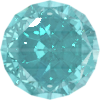
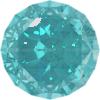
changed gem images and the theme now effects the play button

diff --git a/assets/javascript/javascript-classic.js b/assets/javascript/javascript-classic.js
@@ -250,12 +250,6 @@ var iceBackgroundPurchased = false;
 
 function buyTheme(themeName) {
     themes = {
-        'classic': {
-            'cost': 0,
-            'background': 'classic-background',
-            'inventoryBackgroundTheme': 'inventory-background-classic-theme',
-            'themeStyle': 'classic-theme'
-        },
         'fruit': {
             'cost': 100,
             'background': 'fruit-background',
@@ -264,7 +258,8 @@ function buyTheme(themeName) {
             'themePurchased': fruitBackgroundPurchased,
             'themeInventory': '#select-fruit-theme',
             'inventoryBackgroundImage': 'fruit-background-container',
-            'storeItemContainer' : '#fruit-background-purchase'
+            'storeItemContainer': '#fruit-background-purchase',
+            'playButton': 'play-button-fruit'
         },
         'pink': {
             'cost': 200,
@@ -274,7 +269,8 @@ function buyTheme(themeName) {
             'themePurchased': pinkBackgroundPurchased,
             'themeInventory': '#select-pink-theme',
             'inventoryBackgroundImage': 'pink-background-container',
-            'storeItemContainer' : '#pink-background-purchase'
+            'storeItemContainer': '#pink-background-purchase',
+            'playButton': 'play-button-pink'
         },
         'ice': {
             'cost': 300,
@@ -284,7 +280,8 @@ function buyTheme(themeName) {
             'themePurchased': iceBackgroundPurchased,
             'themeInventory': '#select-ice-theme',
             'inventoryBackgroundImage': 'ice-background-container',
-            'storeItemContainer' : '#ice-background-purchase'
+            'storeItemContainer': '#ice-background-purchase',
+            'playButton': 'play-button-ice'
         },
     }
     theme = themes[themeName];
@@ -308,7 +305,13 @@ function buyTheme(themeName) {
         $('#player-name-stats').removeClass('fruit-theme');
         $('#player-name-stats').removeClass('colour-secondary');
         $('#player-name-stats').addClass(theme.themeStyle);
+        $('#ready-button').removeClass('play-button-classic');
+        $('#ready-button').removeClass('play-button-fruit');
+        $('#ready-button').removeClass('play-button-ice');
+        $('#ready-button').removeClass('play-button-pink');
+        $('#ready-button').addClass(theme.playButton);
         currentTheme = theme.themeStyle;
+        currentThemePlayButton = theme.playButton;
         for (i = 0; i < theme.cost; i++) {
             coins--;
         };
@@ -344,32 +347,36 @@ $('#ice-background-purchase').on('click', function () {
 /* selecting theme */
 
 var currentTheme = 'classic-theme';
+var currentThemePlayButton = 'play-button-classic'
 
 function changeTheme(themeName) {
     themes = {
         'classic': {
             'background': 'classic-background',
             'inventoryBackground': 'inventory-background-classic-theme',
-            'themeStyle': 'classic-theme'
+            'themeStyle': 'classic-theme',
+            'playButton': 'play-button-classic'
         },
         'fruit': {
             'background': 'fruit-background',
             'inventoryBackground': 'inventory-background-fruit-theme',
-            'themeStyle': 'fruit-theme'
+            'themeStyle': 'fruit-theme',
+            'playButton': 'play-button-fruit'
         },
         'pink': {
             'background': 'pink-background',
             'inventoryBackground': 'inventory-background-pink-theme',
-            'themeStyle': 'pink-theme'
+            'themeStyle': 'pink-theme',
+            'playButton': 'play-button-pink'
         },
         'ice': {
             'background': 'ice-background',
             'inventoryBackground': 'inventory-background-ice-theme',
-            'themeStyle': 'ice-theme'
+            'themeStyle': 'ice-theme',
+            'playButton': 'play-button-ice'
         },
     }
     theme = themes[themeName]
-
     $('body').removeClass('ice-background');
     $('body').removeClass('pink-background');
     $('body').removeClass('fruit-background');
@@ -388,7 +395,13 @@ function changeTheme(themeName) {
     $('#player-name-stats').removeClass('fruit-theme');
     $('#player-name-stats').removeClass('colour-secondary');
     $('#player-name-stats').addClass(theme.themeStyle);
+    $('#ready-button').removeClass('play-button-classic');
+    $('#ready-button').removeClass('play-button-fruit');
+    $('#ready-button').removeClass('play-button-ice');
+    $('#ready-button').removeClass('play-button-pink');
+    $('#ready-button').addClass(theme.playButton);
     currentTheme = theme.themeStyle;
+    currentThemePlayButton = theme.playButton;
 };
 
 $('#select-classic-theme').on('click', function () {
@@ -800,7 +813,7 @@ function levelComplete() {
 
     $('#ready-start-button-container').html(`
         <i class="fas fa-long-arrow-alt-right left-play-arrow"></i>
-        <button onclick="start()" id="ready-button" class="play-button">Play!<i class="mx-2 fas fa-play"></i></button>
+        <button onclick="start()" id="ready-button" class="${currentThemePlayButton}">Play!<i class="mx-2 fas fa-play"></i></button>
         <i class="fas fa-long-arrow-alt-left right-play-arrow"></i>
     `);
 

diff --git a/assets/style/style.css b/assets/style/style.css
@@ -48,7 +48,7 @@ h6 {
     align-items:center;
 }
 
-.play-button {
+.play-button-classic {
     font-family: 'Grenze', serif;
     height:40px;
     width:100px;
@@ -60,7 +60,60 @@ h6 {
     border:solid silver 2px;
 }
 
-.play-button:hover {
+.play-button-classic:hover {
+    color:gray;
+    text-decoration:none;
+}
+
+.play-button-fruit {
+    font-family: 'Grenze', serif;
+    height: 40px;
+    width: 100px;
+    background-image: linear-gradient(#ffe48c, rgb(168, 239, 160));
+    border: none;
+    border-radius: 15px;
+    font-size: 20px;
+    color: rgb(36, 113, 61);
+    border: solid rgb(86, 157, 86) 2px;
+}
+}
+
+.play-button-fruit:hover {
+    color:rgb(155, 139, 109);
+    text-decoration:none;
+}
+
+.play-button-pink {
+    font-family: 'Grenze', serif;
+    height: 40px;
+    width: 100px;
+    background-image: linear-gradient(#ffe7e7, rgb(255, 177, 177));
+    border: none;
+    border-radius: 15px;
+    font-size: 20px;
+    color: #d87474;
+    border: solid #ff9696 2px;
+}
+
+.play-button-pink:hover {
+    color:gray;
+    text-decoration:none;
+}
+
+.play-button-ice {
+    font-family: 'Grenze', serif;
+    height: 40px;
+    width: 100px;
+    background-image: linear-gradient(#dae5e6, rgb(168, 210, 213));
+    border: none;
+    border-radius: 15px;
+    font-size: 20px;
+    color: #4b8998;
+    border: solid #a4e1dd 2px;
+}
+}
+
+.play-button-ice:hover {
     color:gray;
     text-decoration:none;
 }

diff --git a/index.html b/index.html
@@ -44,7 +44,7 @@
                         <p>you have 10 attempts or the computer will win!</p>
                         <p><b>(Example Below)</b></p>
                         <div class="col-12 m-0 p-0 d-flex mt-5 justify-content-center">
-                            <a href="classic-mastermind.html" class="play-button d-flex justify-content-center align-items-center">Play<i class="mx-2 fas fa-play"></i></a>
+                            <a href="classic-mastermind.html" class="play-button-classic d-flex justify-content-center align-items-center">Play<i class="mx-2 fas fa-play"></i></a>
                         </div>
                     </div>
                 </div>

diff --git a/classic-mastermind.html b/classic-mastermind.html
@@ -32,7 +32,7 @@
                 <div class="col-12 m-0 p-0 d-flex justify-content-center ready-button-container">
                     <div id="ready-start-button-container">
                         <i class="fas fa-long-arrow-alt-right left-play-arrow"></i>
-                        <button onclick="start()" id="ready-button" class="play-button">Play!<i
+                        <button onclick="start()" id="ready-button" class="play-button-classic">Play!<i
                                 class="mx-2 fas fa-play"></i></button>
                         <i class="fas fa-long-arrow-alt-left right-play-arrow"></i>
                     </div>
